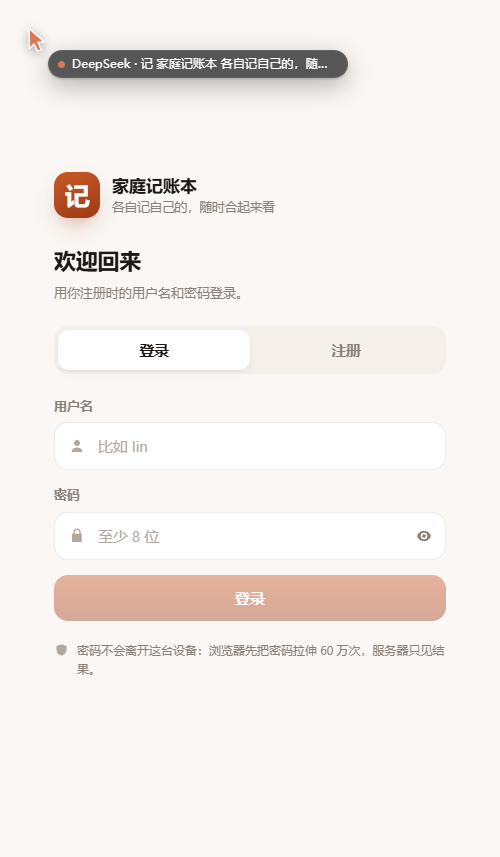
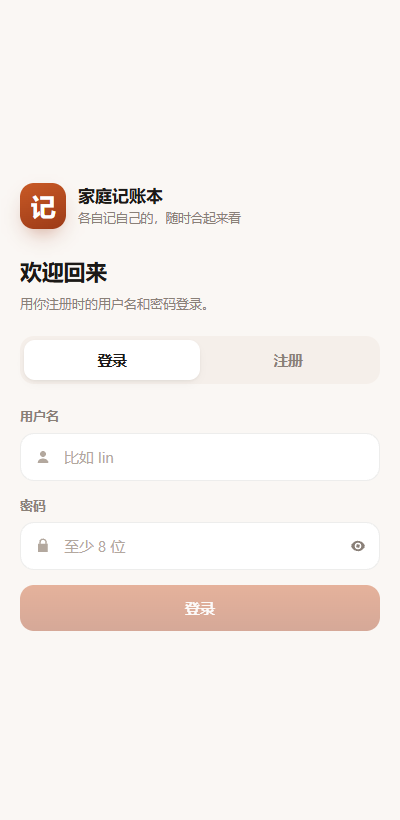
copy: 登录页去掉「密码拉伸 60 万次」的技术说明，卖点改为家里人才看得到

diff --git a/ledger/web/index.html b/ledger/web/index.html
@@ -34,7 +34,7 @@
           <h1>两个人的账，<br />各记各的，随时合看。</h1>
           <p>打开就能按数字，3 秒记完一笔。你记你的，我记我的，月底一起看钱去哪了。</p>
           <ul class="auth__points">
-            <li><span>🔒</span><div><b>密码不上传</b><small>在你手机上拉伸 60 万次，服务器只见结果</small></div></li>
+            <li><span>🔒</span><div><b>只有家里人能看到</b><small>账本要邀请码才能加入，没有码进不来</small></div></li>
             <li><span>👨👩👧</span><div><b>一个账本，多个人</b><small>邀请码拉家人进来，明细标着是谁花的</small></div></li>
             <li><span>📶</span><div><b>断网也能记</b><small>先存本地，联网自动补传，不会丢</small></div></li>
           </ul>
@@ -115,11 +115,6 @@
               <span id="authSubmitText">登录</span>
             </button>
           </form>
-
-          <p class="auth__note">
-            <svg viewBox="0 0 24 24" aria-hidden="true"><path d="M12 2 4 5v6c0 4.4 3.4 8.4 8 9 4.6-.6 8-4.6 8-9V5l-8-3Z" /></svg>
-            密码不会离开这台设备：浏览器先把密码拉伸 60 万次，服务器只见结果。
-          </p>
         </div>
       </div>
     </section>

diff --git a/ledger/web/styles.css b/ledger/web/styles.css
@@ -296,24 +296,6 @@ svg {
   margin: 0;
 }
 
-.auth__note {
-  display: flex;
-  gap: 8px;
-  align-items: flex-start;
-  margin: 20px 0 0;
-  font-size: 12px;
-  line-height: 1.6;
-  color: var(--muted);
-}
-
-.auth__note svg {
-  width: 15px;
-  height: 15px;
-  margin-top: 2px;
-  flex: none;
-  fill: var(--muted-2);
-}
-
 /* --------------------------------------------------------------- 分段控件 */
 
 .segmented {

diff --git a/ledger/web/sw.js b/ledger/web/sw.js
@@ -9,7 +9,7 @@
  * 改了前端资源记得把 VERSION 加一，否则旧缓存会一直喂老文件。
  */
 
-const VERSION = 'v3';
+const VERSION = 'v4';
 const SHELL_CACHE = `ledger-shell-${VERSION}`;
 
 const SHELL = [
